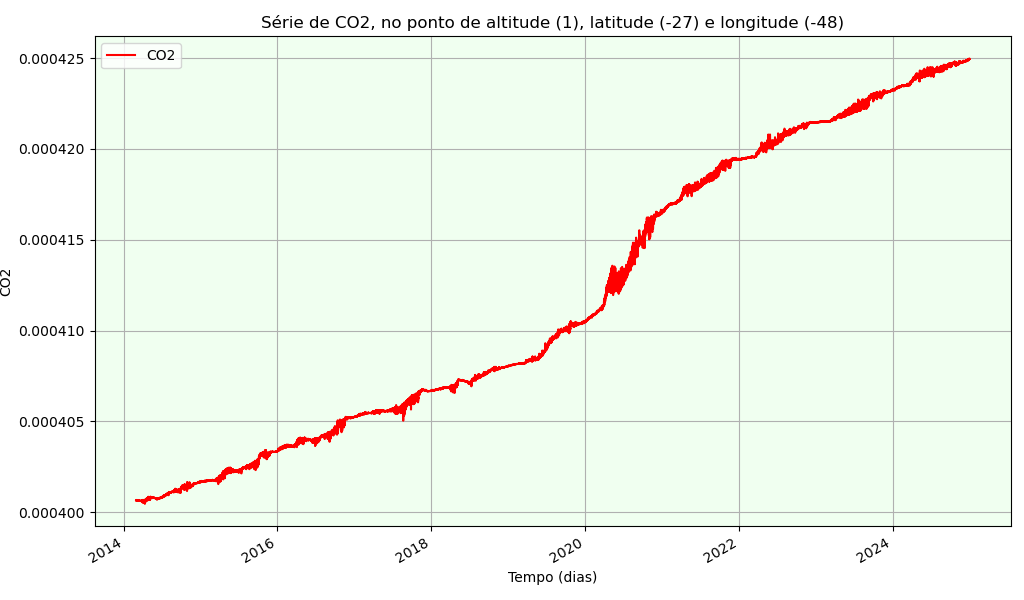
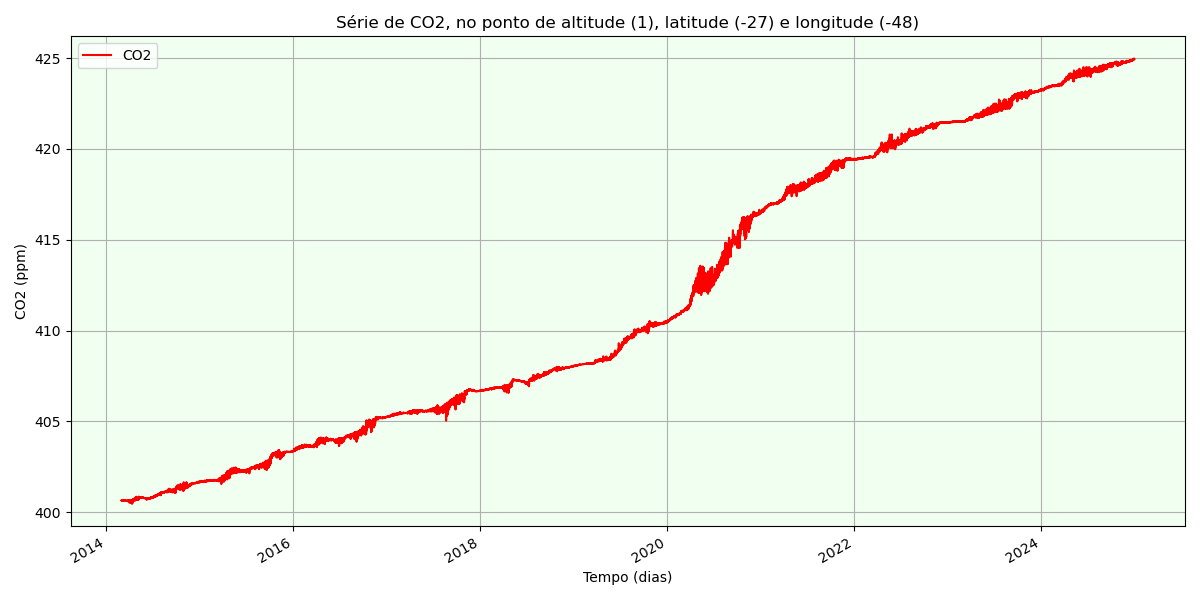
Alterações com correção e regressão.

diff --git a/mabel/analises.py b/mabel/analises.py
@@ -285,6 +285,7 @@ serie_temporal_alterada = serie_temporal.sel(time = serie_temporal.time <= mudan
 print(f"\n{green}Alteração (nível 1):\n{reset}{serie_temporal_alterada}")
 # 8486 * 72 * 157 * 154 * 4 bytes ≈ 55 GB
 serie_temporal_corrigida  = xr.concat([serie_temporal_alterada, serie_temporal_mudada_1], dim = "time")
+serie_temporal_corrigida["CO2"] = serie_temporal_corrigida["CO2"] * 1000000
 print(f"\n{green}Série Temporal (após mudança de metodologia com correção):\n{reset}{serie_temporal_corrigida}")
 #plot_temporal(serie_temporal_corrigida, "CO2", -27, -48, "média", "serie (com correção de metodologia)")
 #salvar_csv(caminho_resultados, serie_temporal_corrigida, "serie_temporal_lvmedia_corrigida.csv")
@@ -295,7 +296,7 @@ plt.title(f"Série de CO2, no ponto de altitude (1), latitude (-27) e longitude 
 plt.grid(True)
 plt.legend()
 plt.xlabel("Tempo (dias)")
-plt.ylabel("CO2")
+plt.ylabel("CO2 (ppm)")
 plt.tight_layout()
 plt.show()
 #salvar_csv(caminho_resultados, serie_temporal_corrigida, "serie_temporal_lv1_corrigida.csv")
@@ -309,23 +310,25 @@ angulo, intercepto, r, p_value, desvio_padrao = linregress(tempo_num, co2_valor)
 regressao = angulo * tempo_num + intercepto
 plt.figure(figsize = (12, 6), layout = "tight", frameon = False)
 plt.plot(tempo, co2_valor, label = "CO2", color = "red")
-plt.plot(tempo, regressao, label = f"Regressão Linear (R² = {r**2:.3f}, p = {p_value}, desvio padrão = {desvio_padrao})", color = "blue", linestyle = "--")
+plt.plot(tempo, regressao, label = f"Regressão Linear [ y = {angulo} * X + {intercepto}]\n(R² = {r**2:.3f}, p = {p_value}, desvio padrão = {desvio_padrao})", color = "blue", linestyle = "--")
 plt.gca().patch.set_facecolor("honeydew")
 plt.title(f"Série de CO2 e Regressão Linear, no ponto de altitude (1), latitude (-27) e longitude (-48)")
 plt.grid(True)
 plt.legend()
 plt.xlabel("Tempo (dias)")
-plt.ylabel("CO2")
+plt.ylabel("CO2 (ppm)")
 plt.tight_layout()
 plt.show()
 ###########################################################################
 ####################################################################
 # CORRIGINDO MUDANÇA DE METODOLOGIA (VALORES DESLOCADOS PARA CIMA) # lv = média
 ####################################################################
-serie_temporal_pontomedia = serie_temporal.sel(lat = -27, lon = -48, method = "nearest").mean(dim = "lev", skipna = True)
-serie_temporal_mudadamedia = serie_temporal_pontomedia.sel(time = serie_temporal_pontomedia.time >= mudanca_metodologia)
-
+serie_temporal_ponto = serie_temporal.sel(lat = -27, lon = -48, method = "nearest")
+serie_temporal_pontomedia = serie_temporal_ponto.mean(dim = "lev", skipna = True)
+#serie_temporal_pontomedia = serie_temporal.sel(lat = -27, lon = -48, method = "nearest").mean(dim = "lev", skipna = True)
 print(f"\n{green}Série Temporal (lat = -27, lon = -48, após mudança e níveis médios):\n{reset}{serie_temporal_pontomedia}")
+serie_temporal_mudadamedia = serie_temporal_pontomedia.sel(time = serie_temporal_pontomedia.time >= mudanca_metodologia)
+print(f"\n{green}Série Temporal (lat = -27, lon = -48, após mudança e níveis médios):\n{reset}{serie_temporal_mudadamedia}")
 mudanca_metodologia = np.datetime64("2017-01-24 00:00:00")
 antes = np.datetime64("2017-01-23 00:00:00")
 depois = np.datetime64("2017-01-25 00:00:00")
@@ -333,11 +336,12 @@ antes_media = serie_temporal_pontomedia["CO2"].sel(time = antes)
 depois_media = serie_temporal_pontomedia["CO2"].sel(time = depois)
 diferenca_media = depois_media - antes_media
 print(f"\n{green}Diferença (média dos 72 níveis):\n{reset}{diferenca_media}")
-serie_temporal_alteradamedia = serie_temporal.sel(time = serie_temporal_pontomedia.time <= mudanca_metodologia) + diferenca_media
-print(f"\n{green}Alteração (nível 1):\n{reset}{serie_temporal_alteradamedia}")
+serie_temporal_alteradamedia = serie_temporal_pontomedia.sel(time = serie_temporal_pontomedia.time <= mudanca_metodologia) + diferenca_media
+print(f"\n{green}Alteração (média dos 72 níveis):\n{reset}{serie_temporal_alteradamedia}")
 # 8486 * 72 * 157 * 154 * 4 bytes ≈ 55 GB
 serie_temporal_corrigidamedia  = xr.concat([serie_temporal_alteradamedia, serie_temporal_mudadamedia], dim = "time")
-print(f"\n{green}Série Temporal (após mudança de metodologia com correção):\n{reset}{serie_temporal_corrigidamedia}")
+serie_temporal_corrigidamedia["CO2"] = serie_temporal_corrigidamedia["CO2"] * 1000000
+print(f"\n{green}Série Temporal (após mudança de metodologia com correção, média de 72 níveis):\n{reset}{serie_temporal_corrigidamedia}")
 salvar_nc4(caminho_dados, serie_temporal_corrigidamedia, "serie_temporal_lvmedia_corrigida.nc4")
 plt.figure(figsize = (12, 6), layout = "tight", frameon = False)
 serie_temporal_corrigidamedia["CO2"].plot.line(x = "time", label = "CO2", color = "red")
@@ -346,12 +350,12 @@ plt.title(f"Série de CO2, no ponto de latitude (-27), longitude (-48) e média 
 plt.grid(True)
 plt.legend()
 plt.xlabel("Tempo (dias)")
-plt.ylabel("CO2")
+plt.ylabel("CO2 (ppm)")
 plt.tight_layout()
 plt.show()
 #salvar_csv(caminho_resultados, serie_temporal_corrigida, "serie_temporal_lv1_corrigida.csv")
 ########################### AJUSTANDO REGRESSÃO LINEAR
-co2 = serie_temporal_corrigida["CO2"]
+co2 = serie_temporal_corrigidamedia["CO2"]
 tempo = co2["time"].values
 tempo_num = mdates.date2num(tempo)
 co2_valor = co2.values
@@ -360,13 +364,13 @@ angulo, intercepto, r, p_value, desvio_padrao = linregress(tempo_num, co2_valor)
 regressao = angulo * tempo_num + intercepto
 plt.figure(figsize = (12, 6), layout = "tight", frameon = False)
 plt.plot(tempo, co2_valor, label = "CO2", color = "red")
-plt.plot(tempo, regressao, label = f"Regressão Linear (R² = {r**2:.3f}, p = {p_value}, desvio padrão = {desvio_padrao})", color = "blue", linestyle = "--")
+plt.plot(tempo, regressao, label = f"Regressão Linear [ y = {angulo} * X + {intercepto}]\n(R² = {r**2:.3f}, p = {p_value}, desvio padrão = {desvio_padrao})", color = "blue", linestyle = "--")
 plt.gca().patch.set_facecolor("honeydew")
 plt.title(f"Série de CO2 e Regressão Linear, no ponto de latitude (-27), longitude (-48) e média das 72 altitudes")
 plt.grid(True)
 plt.legend()
 plt.xlabel("Tempo (dias)")
-plt.ylabel("CO2")
+plt.ylabel("CO2 (ppm)")
 plt.tight_layout()
 plt.show()
 ###########################################################################
